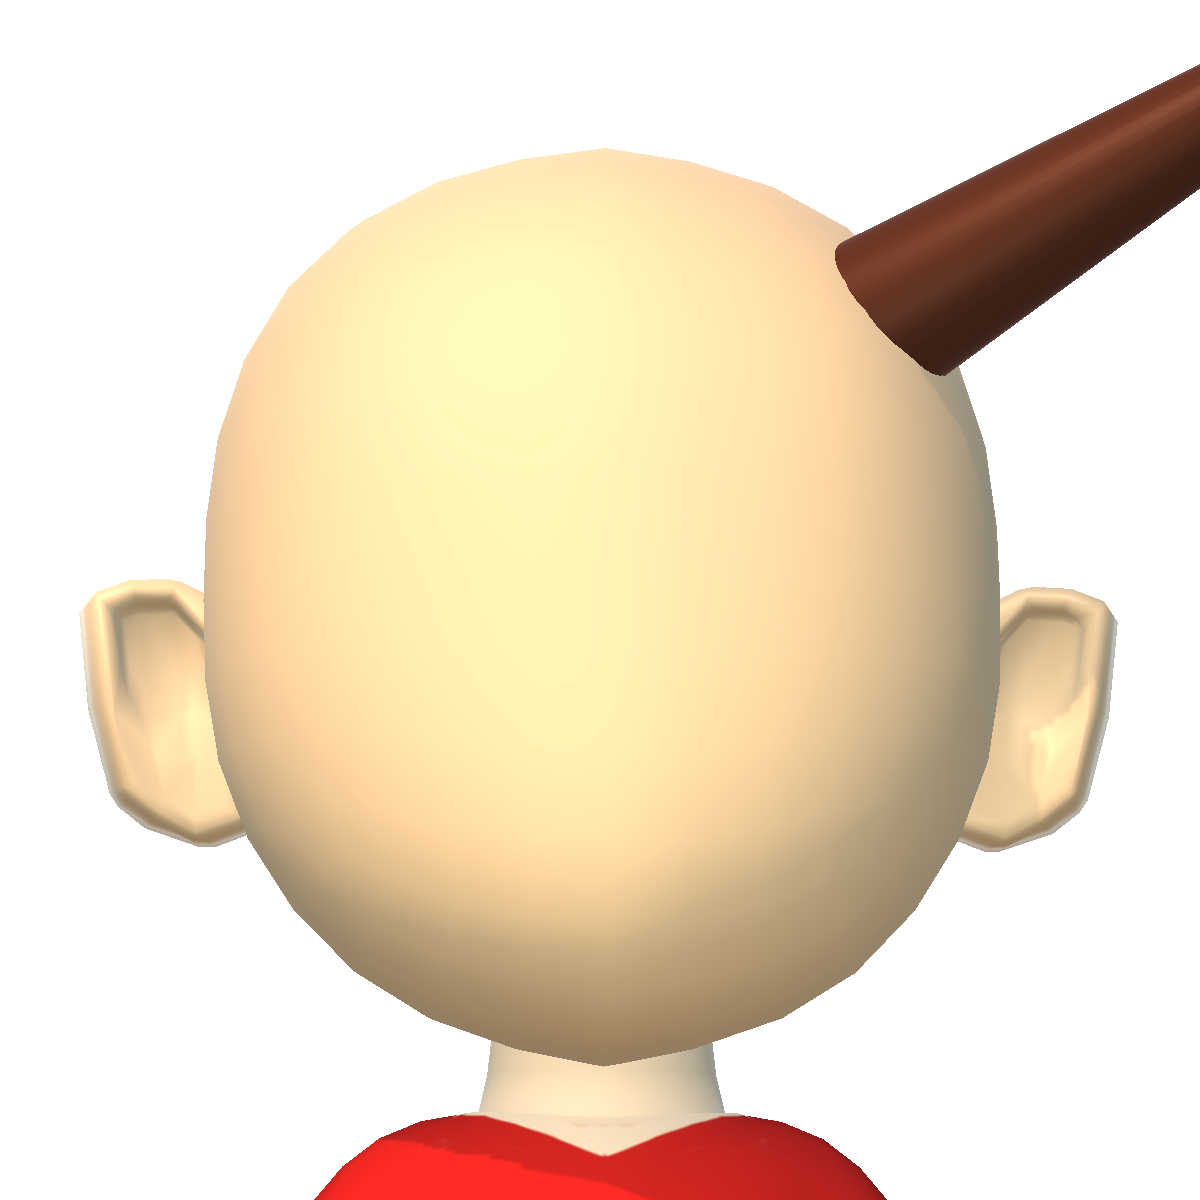
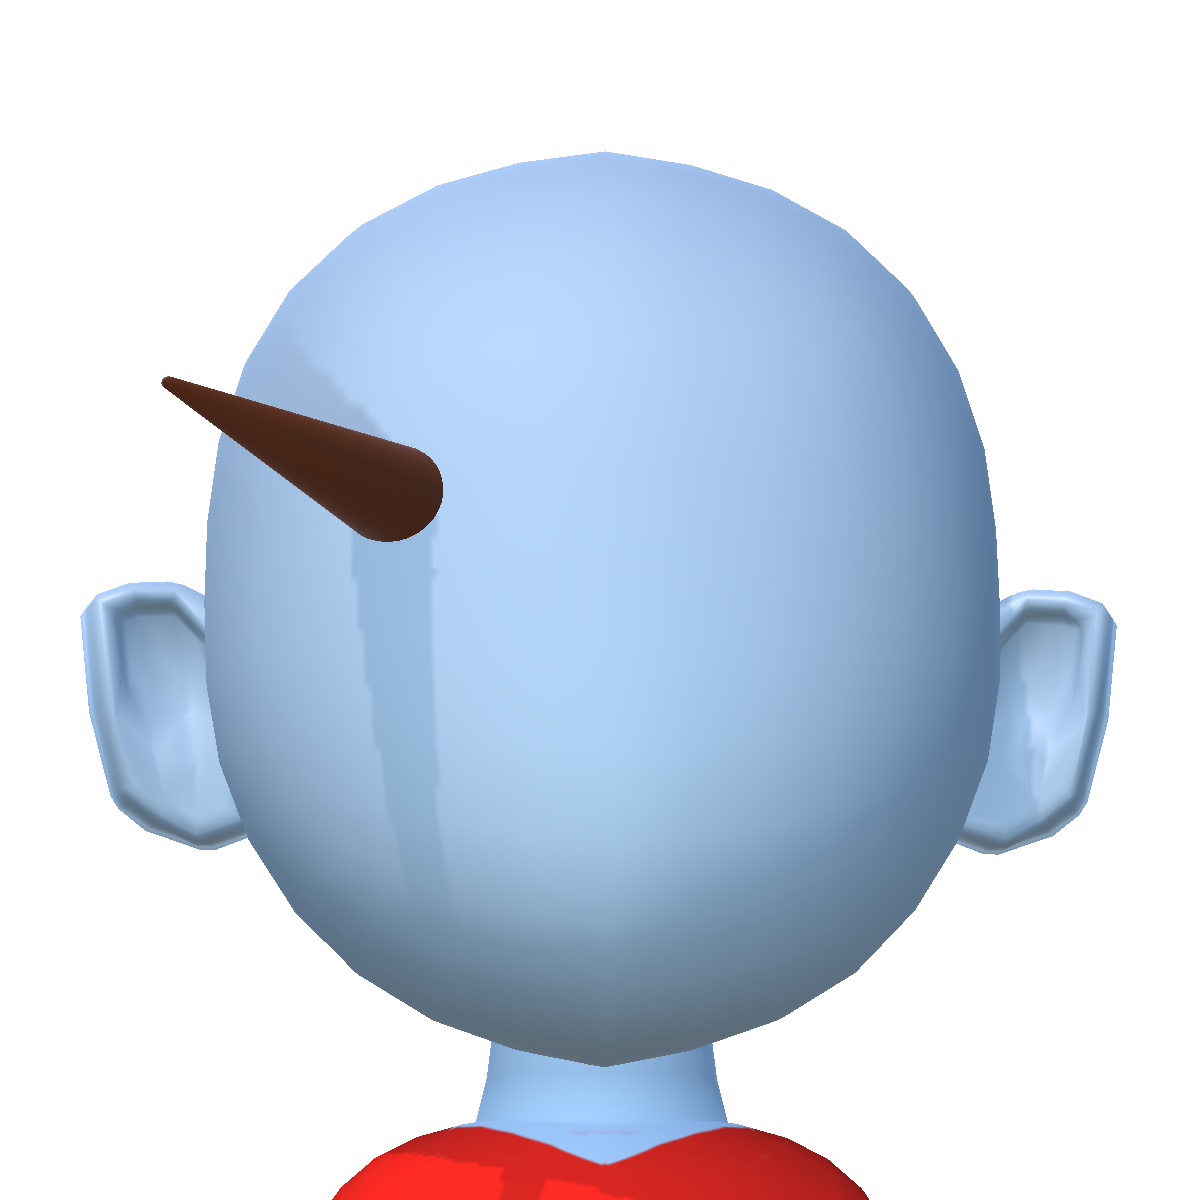
Partial Saving of Strands

diff --git a/Assets/Scripts/FeatureObj.cs b/Assets/Scripts/FeatureObj.cs
@@ -23,22 +23,28 @@ public abstract class FeatureObj : MonoBehaviour
     {
         var numString = inputString.Substring(1);
 
+        print("total inputString = " + inputString + ", numString: " + numString);
+
         int mirrorMatchNum = int.Parse(inputString[0].ToString());
         Settings.MatchColor = (mirrorMatchNum / 3) == 1;
         Settings.Mirror = (MirrorType)(mirrorMatchNum % 3);
 
         if (Data.Type == FeatureType.HAIR && Data.IsMainHair == false) {
 
+            var rotString = numString.Substring(0, 12);
+            GetComponentInChildren<MovableAddon>().SetRot(rotString);
 
+            var posString = numString.Substring(12, 9);
+            GetComponentInChildren<MovableAddon>().SetPos(posString);
 
-            Settings.Size = float.Parse(numString.Substring(12, 3)) / 1000;
+            Settings.Size = float.Parse(numString.Substring(21, 3)) / 1000;
 
-
-            ColorUtility.TryParseHtmlString("#" + numString.Substring(15, 6), out Settings.Color);
-            Tier = (FeatureTier)int.Parse(numString.Substring(21, 1));
+            ColorUtility.TryParseHtmlString("#" + numString.Substring(24, 6), out Settings.Color);
+            Tier = (FeatureTier)int.Parse(numString.Substring(30, 1));
         }
         else {
-            Settings.Hori = float.Parse(numString[..3]) / 1000;
+
+            Settings.Hori = float.Parse(numString.Substring(0, 3)) / 1000;
             Settings.Vert = float.Parse(numString.Substring(3, 3)) / 1000;
             Settings.Size = float.Parse(numString.Substring(6, 3)) / 1000;
             Settings.Angle = float.Parse(numString.Substring(9, 3)) / 1000;
@@ -56,8 +62,13 @@ public abstract class FeatureObj : MonoBehaviour
     {
         var result = Data.name + "~";
         result += (Convert.ToInt32(Settings.MatchColor) * 3 + (int)Settings.Mirror);
+
         if (Data.Type == FeatureType.HAIR && !Data.IsMainHair) {
-            result += "000000" + "000000" + RoundToString(Settings.Size);
+
+            var rotString = GetComponentInChildren<MovableAddon>().GetRotString();
+            var posString = GetComponentInChildren<MovableAddon>().GetPosString();
+
+            result += rotString + posString + RoundToString(Settings.Size);
         }
         else { 
             result += RoundToString(Settings.Hori) + RoundToString(Settings.Vert) + RoundToString(Settings.Size) + RoundToString(Settings.Angle);
@@ -70,6 +81,9 @@ public abstract class FeatureObj : MonoBehaviour
         return result;
     }
 
+    /// <summary>
+    /// returns a 3 Digit string based on the input number, range 0-1 for input
+    /// </summary>
     protected string RoundToString(float input )
     {
         input = Mathf.Clamp(input, 0.001f, 0.999f);

diff --git a/Assets/Scripts/UtilityScripts/Utils.cs b/Assets/Scripts/UtilityScripts/Utils.cs
@@ -1,7 +1,8 @@
- using UnityEngine;
+ using UnityEngine;
 using System.Collections.Generic;
 using UnityEngine.SceneManagement;
 using System.IO;
+using System.Runtime.CompilerServices;
 
 public static class Utils
 {
@@ -13,6 +14,9 @@ public static class Utils
 
     public static float Rand(Vector2 range) => Random.Range(range.x, range.y);
 
+    private static int AXIS_BITS = 6;
+    private static int AXIS_STEPS = 1 << AXIS_BITS;
+
     public static Color HexToColor(string hex)
     {
         if (hex.StartsWith("#")) hex = hex.Substring(1);
@@ -22,6 +26,78 @@ public static class Utils
         return new Color32(r, g, b, 255);
     }
 
+    public static int QuantizeAngle(float degrees)
+    {
+        degrees = Mathf.Repeat(degrees, 360f);
+
+        int q = Mathf.RoundToInt( degrees / 360f * (AXIS_STEPS - 1) );
+        
+        // prevent negative or overflow:
+        return Mathf.Clamp(q, 0, AXIS_STEPS - 1);
+    }
+
+    public static float DequantizeAngle(int q)
+    {
+        return q / (float) (AXIS_STEPS - 1) * 360f;
+    }
+
+    public static string EncodeQuaternions12(Quaternion a, Quaternion b)
+    {
+        Vector3 eulerA = a.eulerAngles;
+        Vector3 EuerlB = b.eulerAngles;
+
+        ulong packed = 0;
+        int shift = 0;
+
+        void Pack(float angle)
+        {
+            if (shift >= 36)
+                throw new System.Exception("Quaternion pack overflow");
+
+            ulong q = (ulong)QuantizeAngle(angle); // 0–63
+            packed |= q << shift;
+            shift += 6;
+        }
+
+        Pack(eulerA.x);
+        Pack(eulerA.y);
+        Pack(eulerA.z);
+        Pack(EuerlB.x);
+        Pack(EuerlB.y);
+        Pack(EuerlB.z);
+
+        // This value is guaranteed < 2^36 ≈ 6.87e10
+        // Which fits comfortably in 12 digits
+        return packed.ToString("D12");
+    }
+
+    public static void DecodeQuaternions12(string inputString, out Quaternion QuaternionA, out Quaternion QuaternionB)
+    {
+        ulong packed = ulong.Parse(inputString);
+        int shift = 0;
+
+        float UnpackAxis()
+        {
+            int q = (int)((packed >> shift) & (ulong)(AXIS_STEPS - 1));
+            shift += AXIS_BITS;
+            return DequantizeAngle(q);
+        }
+
+        Vector3 eulerA = new Vector3(
+            UnpackAxis(),
+            UnpackAxis(),
+            UnpackAxis()
+        );
+
+        Vector3 eulerB = new Vector3(
+            UnpackAxis(),
+            UnpackAxis(),
+            UnpackAxis()
+        );
+
+        QuaternionA = Quaternion.Euler(eulerA);
+        QuaternionB = Quaternion.Euler(eulerB);
+    }
 
     public static string CapitalFirst(string input)
     {

diff --git a/Assets/MovableAddon.cs b/Assets/MovableAddon.cs
@@ -23,6 +23,72 @@ public class MovableAddon : MonoBehaviour
         _controller = GetComponentInParent<HairPiece>();
     }
 
+    /// <summary>
+    /// Returns a 12 digit string representing the rotation of the parent and then the child, parent rot first.
+    /// </summary>
+    public string GetRotString()
+    {
+        var parentRot = transform.localRotation;
+        var childRot = transform.GetChild(0).localRotation;
+        var returnString = Utils.EncodeQuaternions12(parentRot, childRot);
+        print("generated return quatString. rotA: " + parentRot + ", childRot: " + childRot + ", returnString: " + returnString);
+
+        return returnString;
+    }
+
+    public void SetRot(string inputString)
+    {
+        Utils.DecodeQuaternions12(inputString, out var parentRot, out var childRot);
+
+        print("decoded quatString. rotA: " + parentRot + ", childRot: " + childRot + ", inputString: " + inputString);
+
+        transform.localRotation = parentRot;
+        transform.GetChild(0).localRotation = childRot; 
+    }
+
+    /// <summary>
+    /// Returns a 9 digit string for the local position of this object
+    /// </summary>
+    public string GetPosString()
+    {
+        string Format(float input)
+        {
+            int rounded = Mathf.RoundToInt((input + 5) * 100);
+            int clamped = Mathf.Clamp(rounded, 0, 999);
+            var result = clamped.ToString("D3");
+            while (result.Length < 3) result = "0" + result;
+            return result;
+        }
+
+        var pos = transform.localPosition;
+        var x = Format(pos.x);
+        var y = Format(pos.y);
+        var z = Format(pos.z);
+        var returnString = x + y + z;
+        print("generated pos string: " + returnString);
+
+        return returnString;
+    }
+
+    /// <summary>
+    /// Given a 9 digit string generated by 'GetPosString', sets the position of this object
+    /// </summary>
+    public void SetPos(string inputString)
+    {
+        float Decode(string input, int startingIndex)
+        {
+            var integer = int.Parse(input.Substring(startingIndex, 3));
+            return integer / 100f - 5f;
+        }
+
+        float x = Decode(inputString, 0);
+        float y = Decode(inputString, 3);
+        float z = Decode(inputString, 6);
+
+        print("decoded pos string. x: " + x + ", y: " + y + ", z: " + z + ", posString: " + inputString);
+        transform.localPosition = new Vector3(x, y, z);
+    }
+
     public void SetSelected(bool selected)
     {
         Selected = selected;

diff --git a/Assets/Scripts/Managers/GameManager.cs b/Assets/Scripts/Managers/GameManager.cs
@@ -64,22 +64,16 @@ public class GameManager : MonoBehaviour
         var characters = File.ReadAllText(Path).Split("\n").ToList();
         bool found = false;
         for (int i = 0; i < characters.Count; i++) {
-            print("found character: " + characters[i]);
-
-            if (characters[i].Length > 0) print("Looking for : " + _character.ID + ", foundID: " + characters[i][..idLength]);
-
+            
             if (characters[i].Length > 0 && characters[i][..idLength] == _character.ID) {
-                print("FOUND ID MATCHED");
+                //print("FOUND ID MATCHED");
                 characters[i] = newData;
                 found = true;
                 break;
             }
-            else {
-                print("found ID didn't match search ID");
-            }
         }
         if (!found) {
-            print("target ID not found, adding new character");
+            //print("target ID not found, adding new character");
             characters.Add(newData);
         }
 
@@ -93,7 +87,6 @@ public class GameManager : MonoBehaviour
 
         var saveString = File.ReadAllText(Path);
         _character.LoadFromString(saveString);
-        print("loaded sucessfully from: " + Path);
     }
 
     void TogglePause()

diff --git a/Assets/Scripts/HairController.cs b/Assets/Scripts/HairController.cs
@@ -56,7 +56,7 @@ public class HairController : MonoBehaviour, IFeatureController
 
         var parts = saveString.Split("&");
         foreach (var p in parts) {
-            print("adding hair feature: " + p);
+            //print("adding hair feature: " + p);
             AddFeatureFromString(p);
         }
     }
@@ -68,6 +68,8 @@ public class HairController : MonoBehaviour, IFeatureController
         foreach (var f in _allOptions) if (f.name == parts[0]) selected = f;
         var newFeature = AddFeature(selected);
         newFeature.ConfigureFromString(parts[1]);
+
+        print("Adding hair feature from string. name: " + selected.name + ", featureString: " + featureString + ", number part: " + parts[1]);
     }
 
     public string GetSaveString()

diff --git a/Assets/Scripts/HairPiece.cs b/Assets/Scripts/HairPiece.cs
@@ -33,7 +33,7 @@ public class HairPiece : FeatureObj
 
     public void Initialize(HairController controller)
     {
-        print("initialize called on: " + Data.name);
+        //print("initialize called on: " + Data.name);
         _controller = controller;
 
         if (_modelParent == null) _modelParent = Instantiate(Data.MainhairPrefab, transform).transform;
